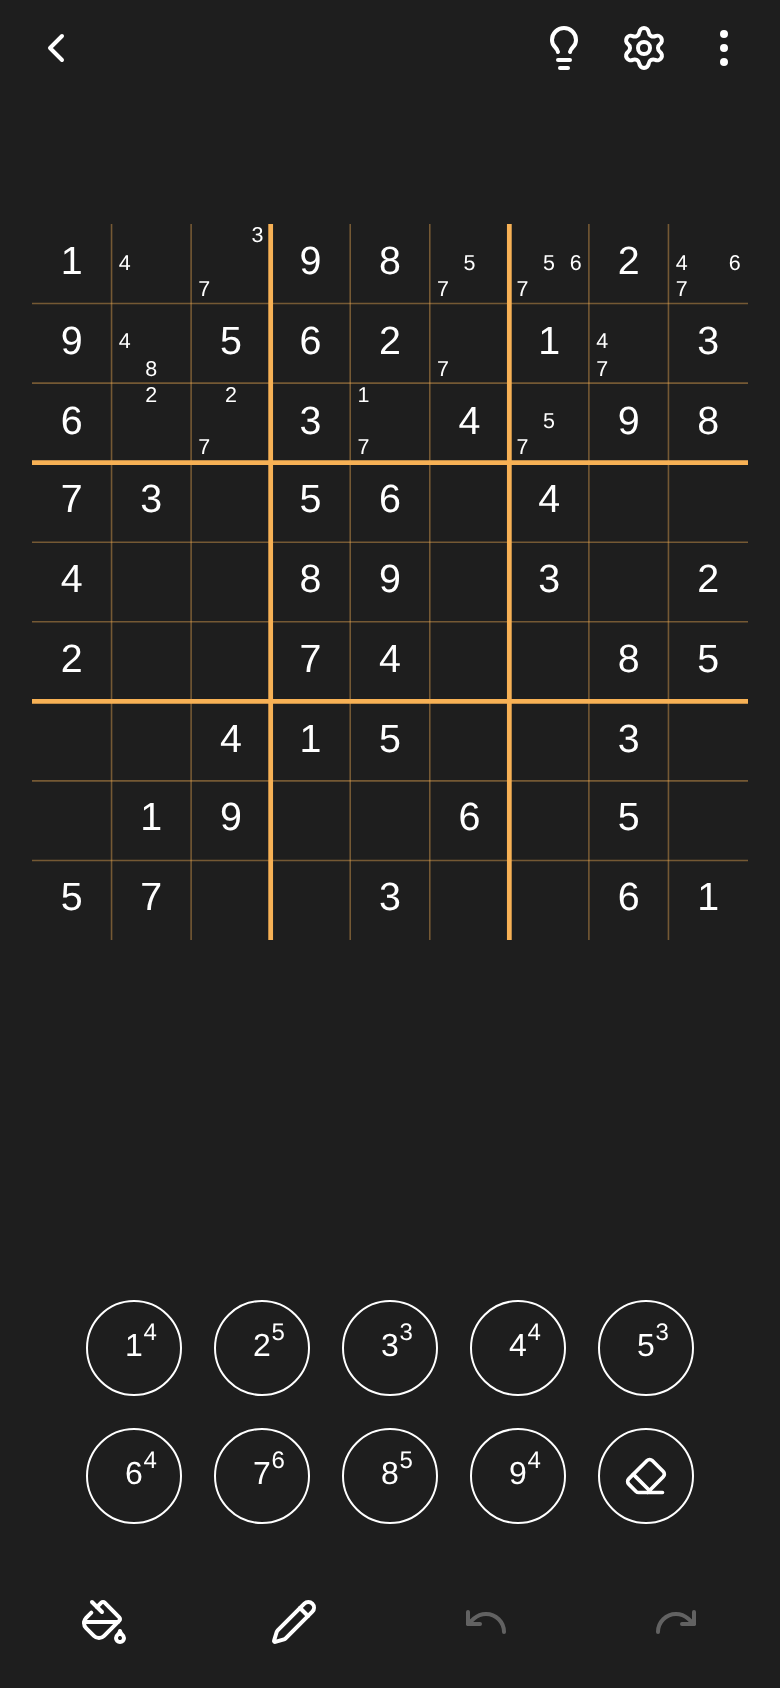
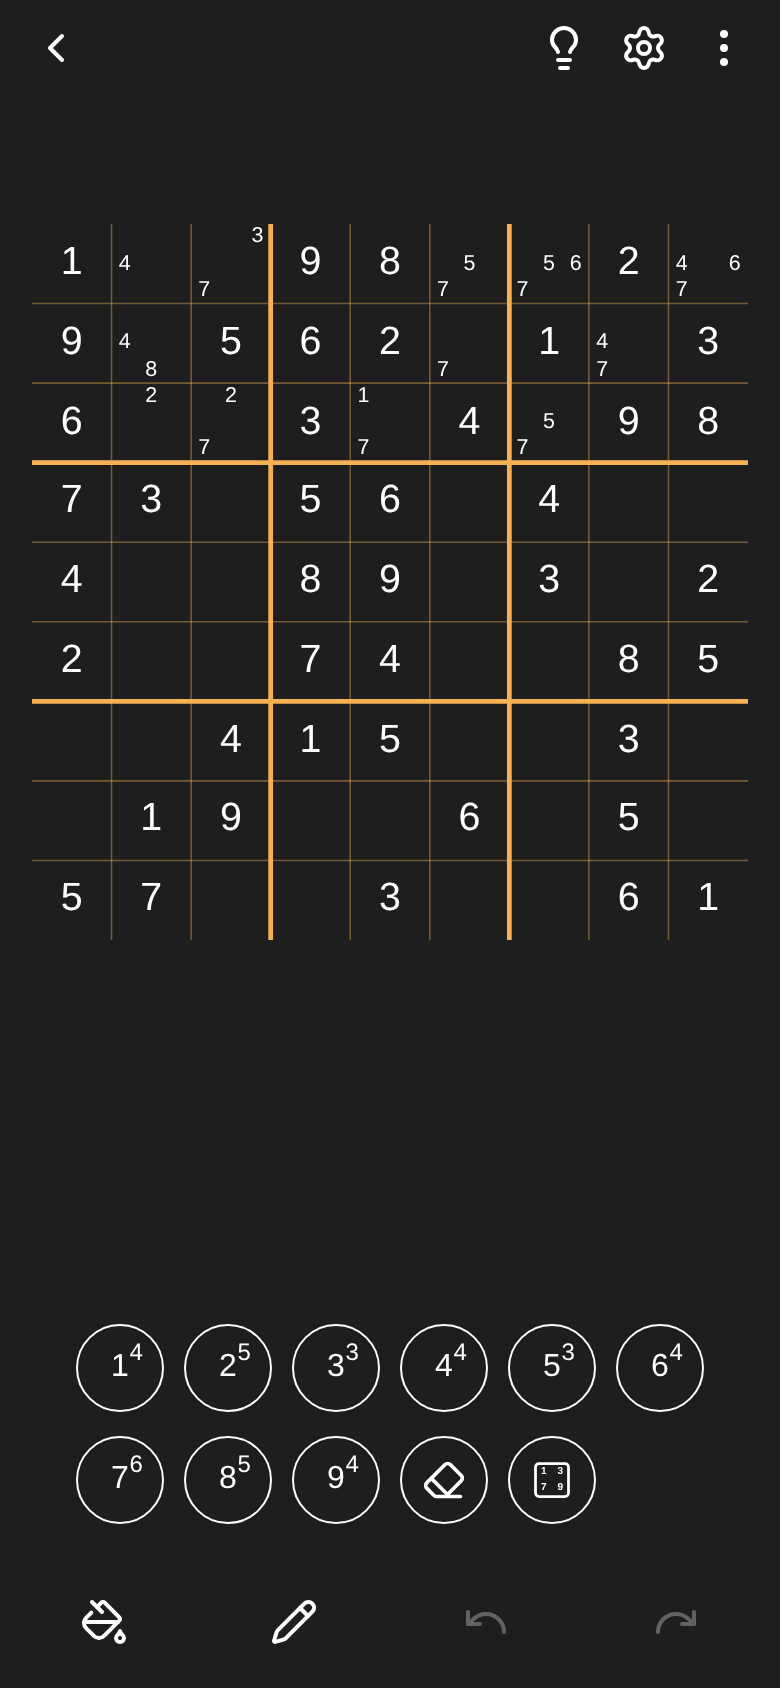
chore: move the screenshot script into its own workspace package
Playwright is now a dependency of packages/scripts only, so building the
app (pnpm install --filter one-sudoku) doesn't pull it in. Also bumps
tauri-plugin-shell to 2.6.0 to match the npm package, and refreshes the
screenshots.

diff --git a/packages/scripts/screenshots.ts b/packages/scripts/screenshots.ts
@@ -4,15 +4,20 @@
 // the store plugin is kept in memory and seeded with a game in progress, and the solver
 // commands are answered by a small backtracking solver below (classic rules + diagonals).
 //
-//   pnpm exec playwright install chromium   # once
+//   pnpm --filter @one-sudoku/scripts exec playwright install chromium   # once
 //   pnpm screenshots
 
 import { mkdir } from 'node:fs/promises';
+import { join, resolve } from 'node:path';
 import { chromium, type Page } from 'playwright';
 import { createServer } from 'vite';
-import classic from '../src/lib/puzzles/classic.json' with { type: 'json' };
+import classic from '../../src/lib/puzzles/classic.json' with { type: 'json' };
 
-const OUT_DIR = 'docs/screenshots';
+// the app lives at the repo root; this runs from its own package
+const ROOT = resolve(import.meta.dirname, '../..');
+const OUT_DIR = join(ROOT, 'docs/screenshots');
+// Tailwind and PostCSS look for their config in the working directory
+process.chdir(ROOT);
 const VIEWPORT = { width: 390, height: 844 };
 
 type Constraint = { type: string };
@@ -214,6 +219,8 @@ async function open(page: Page, url: string) {
 
 async function main() {
 	const server = await createServer({
+		root: ROOT,
+		configFile: join(ROOT, 'vite.config.js'),
 		server: { port: 5199, strictPort: false },
 		logLevel: 'warn'
 	});

diff --git a/README.md b/README.md
@@ -35,10 +35,10 @@ pnpm tauri dev
 
 ## Screenshots
 
-The screenshots above are taken with Playwright against the Vite dev server, with Tauri's IPC mocked and a game in progress seeded (see [`scripts/screenshots.ts`](scripts/screenshots.ts)):
+The screenshots above are taken with Playwright against the Vite dev server, with Tauri's IPC mocked and a game in progress seeded (see [`packages/scripts/screenshots.ts`](packages/scripts/screenshots.ts)). Playwright is a dependency of that package only, so the app doesn't pull it in:
 
 ```sh
-pnpm exec playwright install chromium # once
+pnpm --filter @one-sudoku/scripts exec playwright install chromium # once
 pnpm screenshots
 ```
 
